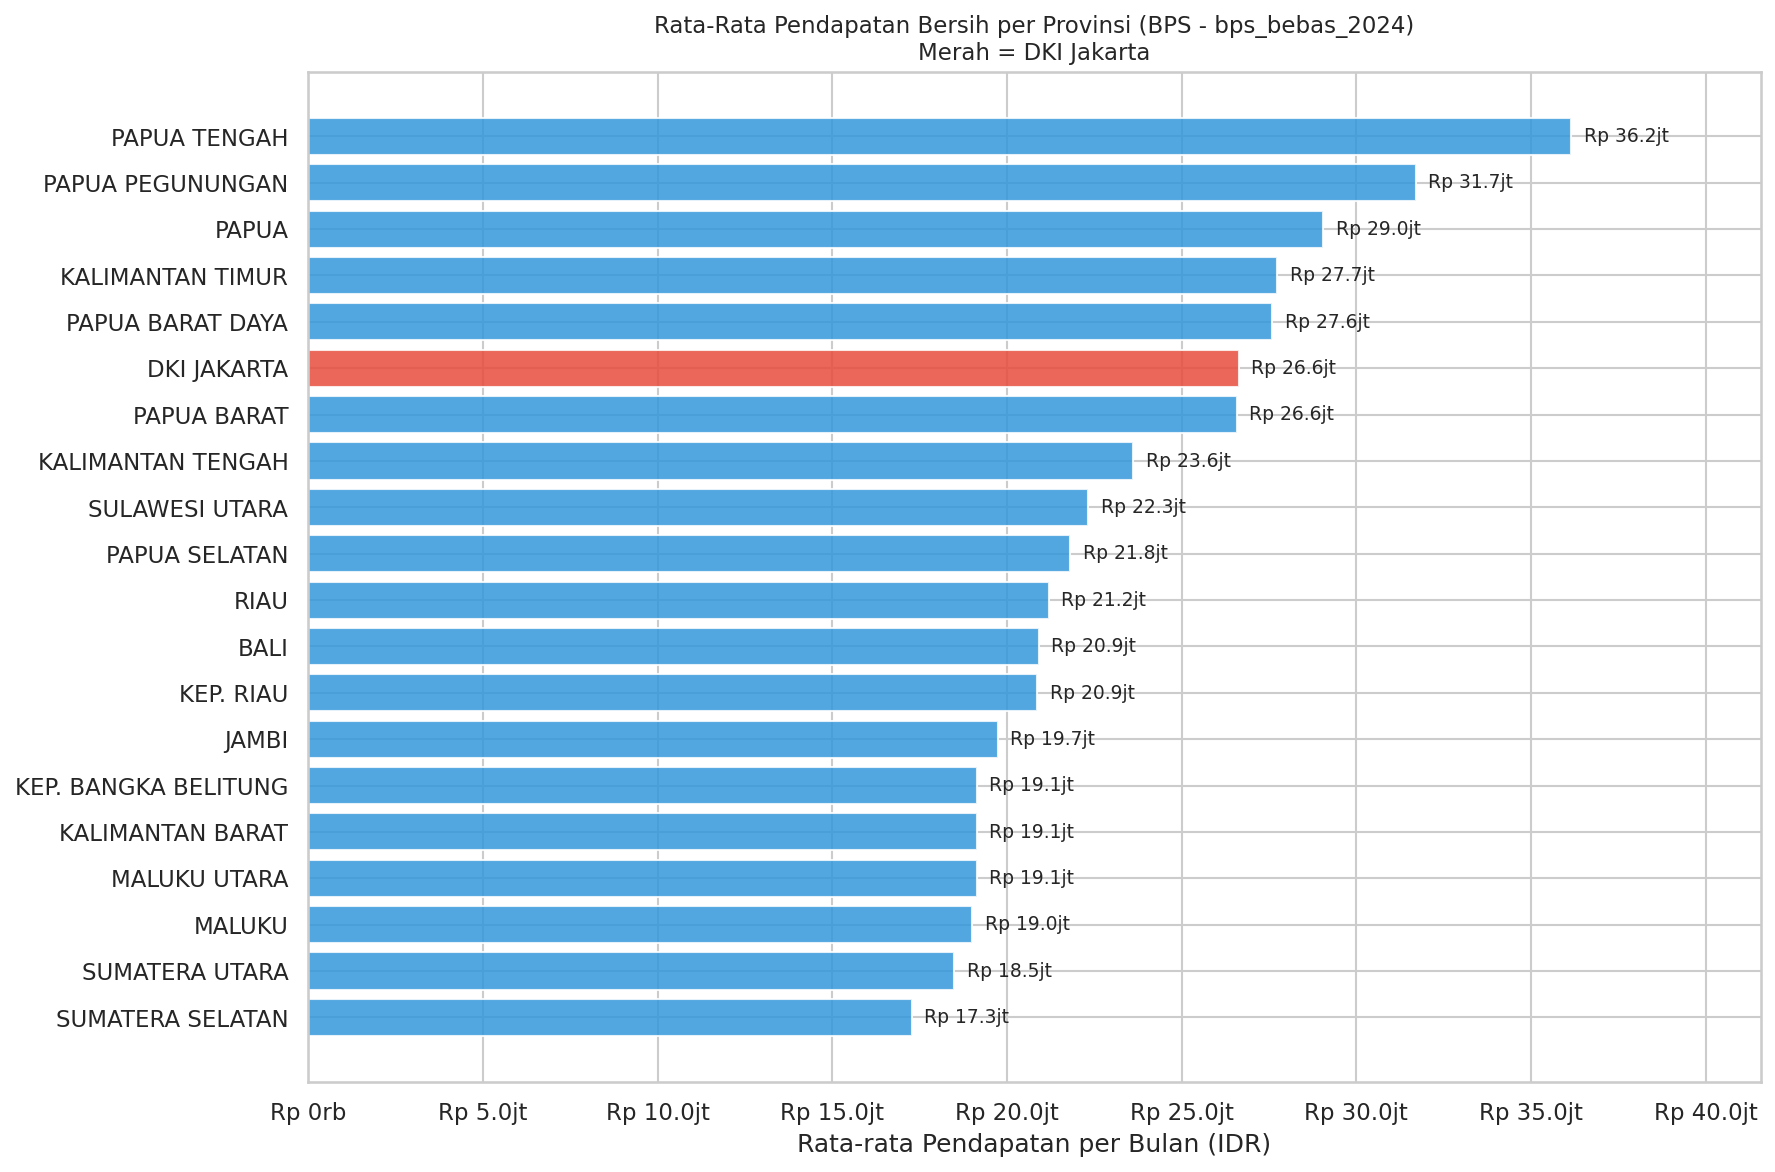
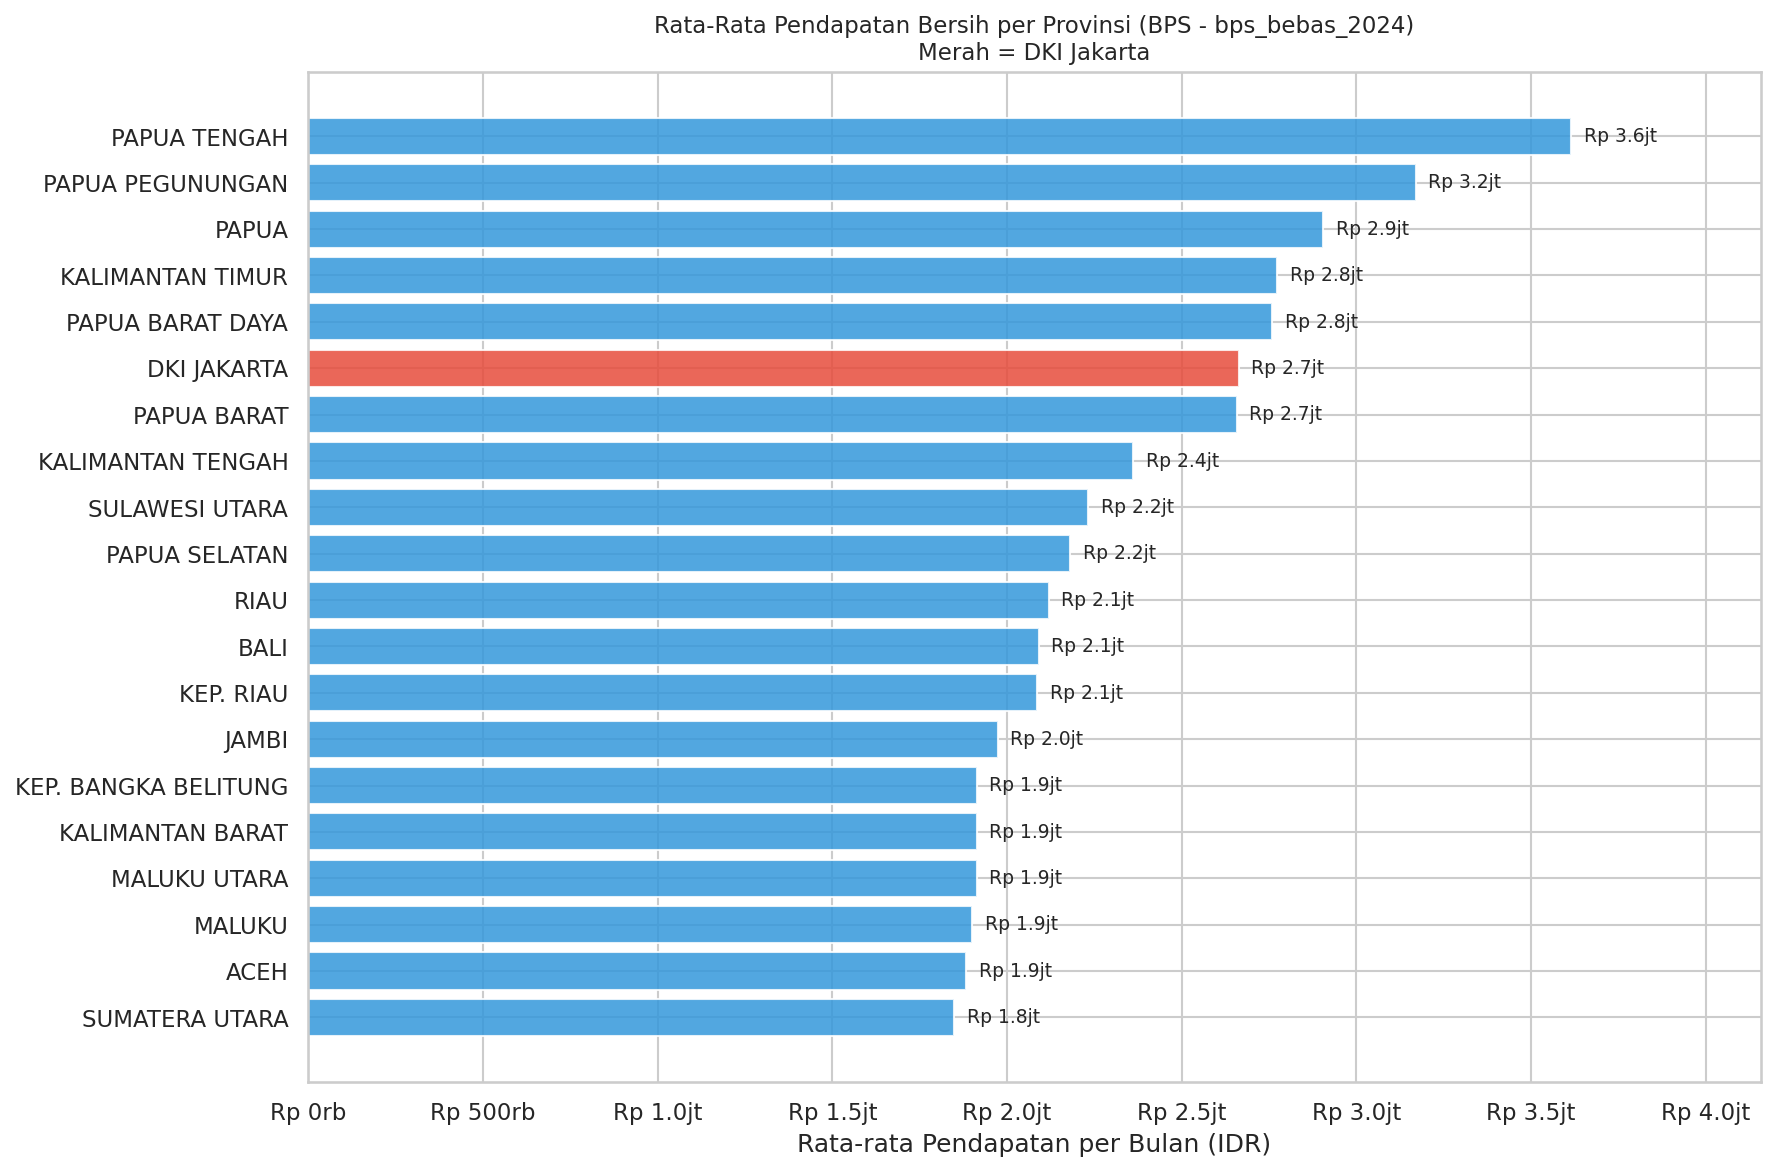
feat: update DS2 income pipeline v5 - fix CoV chart, auto assessing summary, BPS per provinsi, AR1=0.35

diff --git a/outputs/synthetic_proportion_report.md b/outputs/synthetic_proportion_report.md
@@ -11,8 +11,8 @@
 | Kaggle sources | 4 dataset |
 | BPS sources | 4 dataset per provinsi |
 | Skillstack premium ratio | 2.52x |
-| BPS Nasional Bebas | Rp 2,400,000/bulan |
-| BPS DKI Bebas | Rp 3,200,000/bulan |
+| BPS Nasional Bebas | Rp 1,652,500/bulan |
+| BPS DKI Bebas | Rp 2,663,600/bulan |
 
 ## Proporsi Data
 
